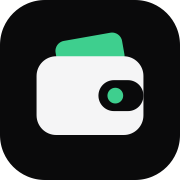
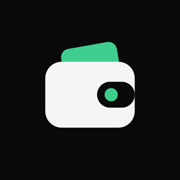
feat: application installable (manifeste, icônes, couleur du thème)

diff --git a/inertia/components/theme_toggle.tsx b/inertia/components/theme_toggle.tsx
@@ -13,6 +13,10 @@ export default function ThemeToggle() {
     const next = theme === 'dark' ? 'light' : 'dark'
     setTheme(next)
     document.documentElement.setAttribute('data-theme', next)
+    // Barre de titre de l'app installée, assortie au thème
+    document
+      .querySelector('meta[name="theme-color"]')
+      ?.setAttribute('content', next === 'dark' ? '#111114' : '#ffffff')
     document.cookie = `${COOKIE}=${next}; path=/; max-age=${ONE_YEAR}; samesite=lax`
   }
 
